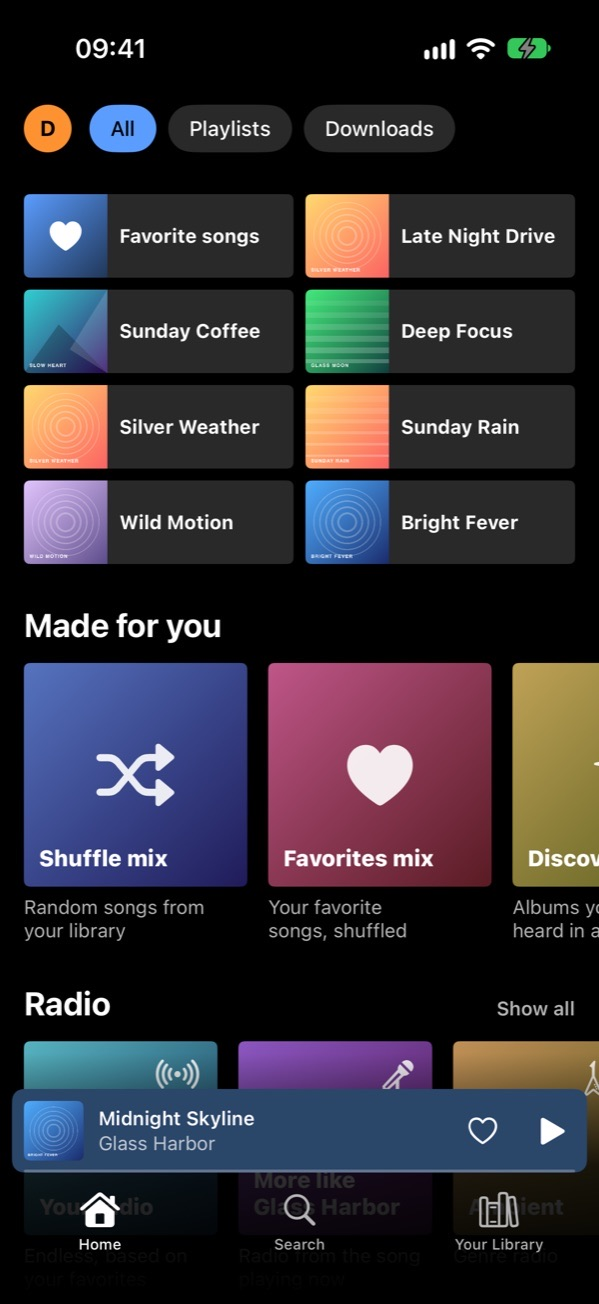
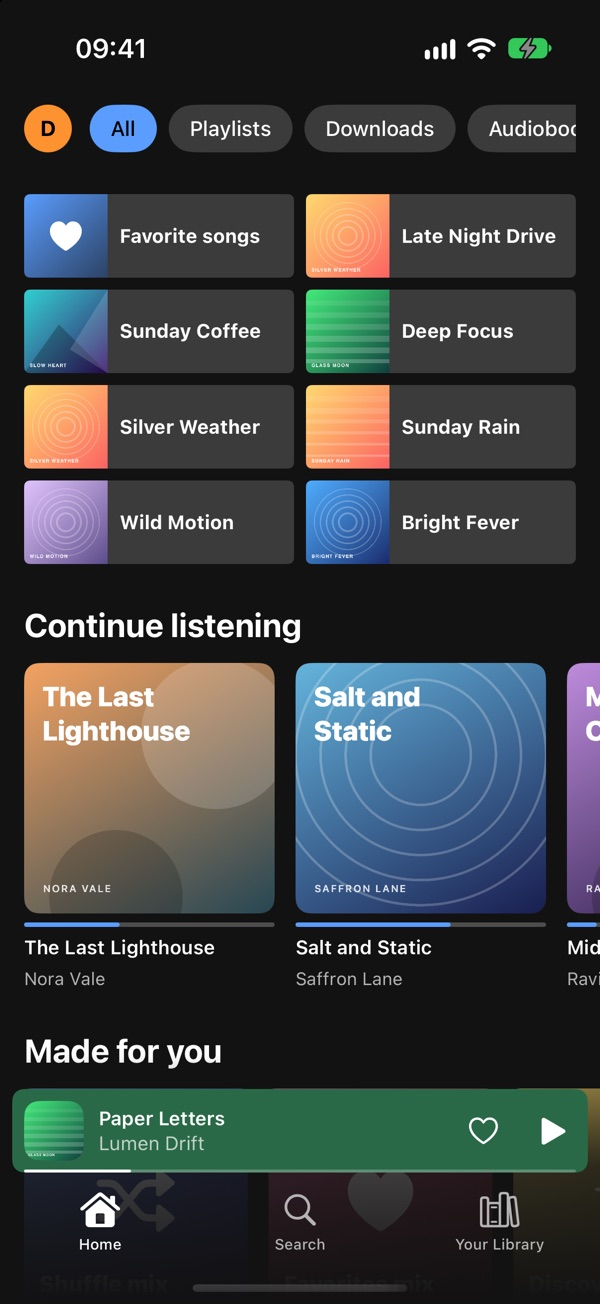
Website: audiobooks and customization sections, new screenshots, audiobook on the watch
- New sections for audiobooks/podcasts and for the look settings, with screenshots
- New home screenshot (dark gray, Continue listening), audiobook shelf in the iPhone strip, audiobook on the watch
- Demo tools: English demo books with covers for the audiobook test server

diff --git a/site/index.html b/site/index.html
@@ -211,6 +211,7 @@
   <div class="strip" id="strip">
     <figure><div class="phone"><img class="shot" src="img/ios/home.jpg" width="600" height="1304" alt="Home" loading="lazy"></div><figcaption>Home</figcaption></figure>
     <figure><div class="phone"><img class="shot" src="img/ios/player.jpg" width="600" height="1304" alt="Player" loading="lazy"></div><figcaption>Player</figcaption></figure>
+    <figure><div class="phone"><img class="shot" src="img/ios/books.jpg" width="600" height="1304" alt="Audiobooks and podcasts: continue listening and new books" loading="lazy"></div><figcaption>Audiobooks and podcasts</figcaption></figure>
     <figure><div class="phone"><img class="shot" src="img/ios/lyrics.jpg" width="600" height="1304" alt="Synced lyrics" loading="lazy"></div><figcaption>Synced lyrics</figcaption></figure>
     <figure><div class="phone"><img class="shot" src="img/ios/album.jpg" width="600" height="1304" alt="Album" loading="lazy"></div><figcaption>Album</figcaption></figure>
     <figure><div class="phone"><img class="shot" src="img/ios/library.jpg" width="600" height="1304" alt="Your library" loading="lazy"></div><figcaption>Your library</figcaption></figure>
@@ -276,7 +277,7 @@
         <ul>
           <li>Eight accent colors or your own, and nine app icons.</li>
           <li>Choose the start screen and which rows the home screen shows.</li>
-          <li>Backgrounds tinted with the cover, or plain black.</li>
+          <li>Dark gray or plain black, tinted with the cover if you like.</li>
           <li>Pin playlists to the top of your library with a long press.</li>
         </ul>
       </div>
@@ -289,6 +290,48 @@
           <li>Logging out removes that account's downloads and cache from the phone.</li>
         </ul>
       </div>
+    </div>
+  </div>
+</section>
+
+<!-- Audiobooks -->
+<section id="books" class="tint-plum">
+  <div class="wrap split">
+    <div class="reveal">
+      <p class="label">Audiobooks &amp; podcasts</p>
+      <h2>Books and podcasts, in the same app.</h2>
+      <p>Connect your Audiobookshelf server under Settings and your books and episodes sit next to your music. Pick up where you stopped, on any device, because the position goes back to the server.</p>
+      <ul class="ticks">
+        <li><b>Chapters, speed and a sleep timer.</b> Skip buttons you can set to 10 to 60 seconds, and speeds from 0.75x to 2.5x.</li>
+        <li><b>Offline.</b> Download books and episodes, listen on a plane, and your position syncs when you're back online.</li>
+        <li><b>Hearts, authors and series.</b> Favorite books and authors show up in your library, finished books get a check mark.</li>
+        <li><b>On the watch and in the car.</b> The same controls on your wrist and in CarPlay, and switching between music and a book follows along.</li>
+      </ul>
+    </div>
+    <div class="trio reveal">
+      <figure><div class="phone"><img class="shot" src="img/ios/book.jpg" width="600" height="1304" alt="A book page with progress, chapters and a play button" loading="lazy"></div></figure>
+      <figure><div class="phone"><img class="shot" src="img/ios/book-player.jpg" width="600" height="1304" alt="The audiobook player with chapter title, skip buttons, speed and sleep timer" loading="lazy"></div></figure>
+    </div>
+  </div>
+</section>
+
+<!-- Customization -->
+<section id="look" class="tint-rose">
+  <div class="wrap split">
+    <div class="trio reveal">
+      <figure><div class="phone"><img class="shot" src="img/ios/appearance.jpg" width="600" height="1304" alt="Appearance settings: accent colors, a custom color and nine app icons" loading="lazy"></div></figure>
+      <figure><div class="phone"><img class="shot" src="img/ios/look.jpg" width="600" height="1304" alt="Appearance settings: background, corners and cover size" loading="lazy"></div></figure>
+    </div>
+    <div class="reveal">
+      <p class="label">Make it yours</p>
+      <h2>Your colors, your corners.</h2>
+      <p>Tonalo should look like your app. Everything is a tap away under Settings, Appearance, and the app follows at once.</p>
+      <ul class="ticks">
+        <li><b>Accent color.</b> Eight to pick from, or any color of your own, and nine app icons to match.</li>
+        <li><b>Background.</b> Dark gray or plain black. Cards, chips and the mini player move along, so they stay readable on both.</li>
+        <li><b>Corners and covers.</b> Sharp, standard or rounded corners, and small, standard or large covers on the home screen.</li>
+        <li><b>Your home screen.</b> Choose the start screen and which rows the home page shows.</li>
+      </ul>
     </div>
   </div>
 </section>
@@ -342,6 +385,7 @@
       <div class="card reveal warm-rose wcard">
         <div class="dev-vis watches">
           <div class="watch-case"><img class="shot" src="img/watch/player.jpg" width="368" height="448" alt="Tonalo on the Apple Watch: the player" loading="lazy"></div>
+          <div class="watch-case"><img class="shot" src="img/watch/book.jpg" width="368" height="448" alt="Tonalo on the Apple Watch: an audiobook with skip buttons" loading="lazy"></div>
           <div class="watch-case"><img class="shot" src="img/watch/library.jpg" width="368" height="448" alt="Tonalo on the Apple Watch: playlists and favorites" loading="lazy"></div>
         </div>
         <div class="wtxt"><h3>Apple Watch</h3>
@@ -350,13 +394,15 @@
           <li>Player with the cover, play, skip, shuffle and a heart</li>
           <li>The iPhone's volume on the Digital Crown</li>
           <li>Start your playlists and favorites from the wrist</li>
+          <li>Audiobooks and podcasts with skip buttons and chapters, and Continue listening first in the library</li>
         </ul></div>
       </div>
       <div class="card reveal warm-green ccard">
         <div><h3>CarPlay</h3>
         <p>Your library on the car screen, made to be used at a glance.</p></div>
         <ul>
-          <li>Home, library and downloads</li>
+          <li>Home with Continue listening, library and downloads</li>
+          <li>Audiobooks and podcasts, with chapters and speed in the player</li>
           <li>Shuffle, repeat and a heart in the player</li>
           <li>No search, because Apple doesn't allow a keyboard in CarPlay music apps</li>
         </ul>

diff --git a/ios/tools/abs_mock.js b/ios/tools/abs_mock.js
@@ -16,9 +16,9 @@ function silence(seconds) {
   b.writeUInt16LE(1, 32); b.writeUInt16LE(8, 34); b.write('data', 36); b.writeUInt32LE(n, 40);
   return b;
 }
-const FILE = 120, WAV = silence(FILE); // every file is 2 minutes
+const FILE = +process.env.MOCK_FILE_SECONDS || 120, WAV = silence(FILE); // every file is 2 minutes (MOCK_FILE_SECONDS for longer ones)
 
-const chapters = (titles) => titles.map((title, i) => ({ id: i, start: i * 80, end: (i + 1) * 80, title }));
+const chapters = (titles) => titles.map((title, i) => { const len = (FILE * 3) / titles.length * (FILE === 120 ? 0.75 : 1) ; return { id: i, start: i * len, end: (i + 1) * len, title }; });
 const BOOKS = [
   { id: 'book-1', title: 'Das stille Buch', authorName: 'Nora Vale', narratorName: 'Milo Ferro', seriesName: 'Stille, Band 1', files: 3,
     description: '<p>Ein erfundenes <b>Hörbuch</b> zum Testen, aufgeteilt auf drei Dateien.</p>',
@@ -30,6 +30,21 @@ const BOOKS = [
 const EPISODES = [1, 2, 3].map((n) => ({ id: 'ep-' + n, title: 'Folge ' + n, subtitle: '', duration: FILE, publishedAt: n * 1000, audioFile: { ino: 'ep-' + n, duration: FILE, metadata: { ext: '.wav', size: 960044 } } }));
 const PODCAST = { id: 'pod-1', title: 'Der stille Podcast', author: 'Echo Park Social', description: 'Ein erfundener Podcast.' };
 
+// MOCK_EN=1: invented English books for screenshots, with some of them started. MOCK_BOOK_COVERS=<dir>: <id>.png is the cover of that item
+if (process.env.MOCK_EN) {
+  const EN = [
+    ['The Last Lighthouse', 'Nora Vale', 'Milo Ferro', 'Tidewater, Book 1', ['The Keeper', 'Storm Season', 'Salt on the Glass', 'The Long Night', 'Morning Tide']],
+    ['Paper Cities', 'Ellis Moor', 'Ines Harlow', '', ['Folded Maps', 'The Cartographer', 'Rain on Paper', 'A Door in the Margin']],
+    ['Salt and Static', 'Saffron Lane', 'Ravi Kade', '', ['Signal', 'Noise', 'Between Stations', 'Clear Channel']],
+    ['A Field Guide to Quiet', 'Glass Harbor', null, '', ['Morning', 'Midday', 'Evening']],
+    ['Midnight Orchard', 'Ravi Kade', 'Nora Vale', 'Tidewater, Book 2', ['Windfall', 'The Gate', 'Frost', 'Blossom', 'Harvest']],
+  ];
+  BOOKS.length = 0;
+  EN.forEach(([title, authorName, narratorName, seriesName, ch], i) => BOOKS.push({ id: 'book-' + (i + 1), title, authorName, narratorName, seriesName, files: 3,
+    description: '<p>An invented audiobook, made up for this demo.</p>', chapters: chapters(ch) }));
+  EPISODES.forEach((e, i) => { e.title = 'Episode ' + (i + 1); });
+  PODCAST.title = 'The Quiet Hour'; PODCAST.description = 'An invented podcast.';
+}
 const authorId = (name) => 'aut-' + name.toLowerCase().replace(/\W+/g, '-');
 const tracks = (b) => Array.from({ length: b.files }, (_, i) => ({ index: i + 1, ino: b.id + '-' + (i + 1), startOffset: i * FILE, duration: FILE, metadata: { ext: '.wav', size: WAV.length } }));
 const book = (b) => ({
@@ -37,7 +52,7 @@ const book = (b) => ({
   media: { duration: b.files * FILE, chapters: b.chapters, numTracks: b.files, tracks: tracks(b),
     metadata: { title: b.title, authorName: b.authorName, narratorName: b.narratorName, seriesName: b.seriesName, description: b.description, publishedYear: '2026',
       authors: [{ id: authorId(b.authorName), name: b.authorName }], narrators: b.narratorName ? [b.narratorName] : [],
-      series: b.seriesName ? [{ id: 'ser-1', name: 'Stille', sequence: '1' }] : [] } },
+      series: b.seriesName ? [{ id: 'ser-' + b.seriesName.split(',')[0].toLowerCase().replace(/\W+/g, '-'), name: b.seriesName.split(',')[0], sequence: (b.seriesName.match(/\d+/) || ['1'])[0] }] : [] } },
 });
 const podcast = () => ({
   id: PODCAST.id, libraryId: 'lib-pods', mediaType: 'podcast', addedAt: Date.now(),
@@ -58,6 +73,11 @@ function save(item, episode, currentTime, duration, finished) {
   const key = episode ? item + '/' + episode : item;
   const isFinished = finished ?? currentTime >= duration - 10;
   progress.set(key, { libraryItemId: item, episodeId: episode || null, currentTime, duration, progress: duration ? Math.min(1, currentTime / duration) : 0, isFinished, lastUpdate: Date.now() });
+}
+
+if (process.env.MOCK_EN) {
+  const dur = (b) => b.files * FILE;
+  [['book-1', 0.38], ['book-3', 0.62], ['book-5', 0.12], ['book-2', 1]].forEach(([id, f]) => { const b = BOOKS.find((x) => x.id === id); save(id, null, dur(b) * f, dur(b)); });
 }
 
 function shelves(lib) {
@@ -190,6 +210,8 @@ http.createServer((req, res) => {
         narrators: BOOKS.filter((b) => (b.narratorName || '').toLowerCase().includes(q)).map((b) => ({ name: b.narratorName, numBooks: 1 })) });
     }
     if ((x = m(/^\/api\/items\/([^/]+)\/cover$/))) {
+      const file = process.env.MOCK_BOOK_COVERS && require('path').join(process.env.MOCK_BOOK_COVERS, x[1] + '.png');
+      if (file && require('fs').existsSync(file)) { res.writeHead(200, { 'Content-Type': 'image/png' }); return res.end(require('fs').readFileSync(file)); }
       res.writeHead(200, { 'Content-Type': 'image/png' });
       // 1x1 PNG, enough to see a cover arrive
[1 lines of base64/hex data omitted]

diff --git a/ios/tools/render_book_covers.swift b/ios/tools/render_book_covers.swift
@@ -1,0 +1,41 @@
+// Draws made-up book and podcast covers for the audiobook demo server (ios/tools/abs_mock.js with MOCK_EN=1):
+//   swift ios/tools/render_book_covers.swift covers-books
+//   MOCK_EN=1 MOCK_BOOK_COVERS=covers-books node ios/tools/abs_mock.js
+import AppKit
+
+let out = URL(fileURLWithPath: CommandLine.arguments.count > 1 ? CommandLine.arguments[1] : "covers-books")
+try FileManager.default.createDirectory(at: out, withIntermediateDirectories: true)
+
+struct Cover { let id, title, author: String; let top, bottom: NSColor; let shape: Int }
+func c(_ r: Int, _ g: Int, _ b: Int) -> NSColor { NSColor(red: CGFloat(r) / 255, green: CGFloat(g) / 255, blue: CGFloat(b) / 255, alpha: 1) }
+let covers = [
+    Cover(id: "book-1", title: "The Last\nLighthouse", author: "NORA VALE", top: c(244, 162, 97), bottom: c(38, 70, 83), shape: 0),
+    Cover(id: "book-2", title: "Paper\nCities", author: "ELLIS MOOR", top: c(233, 196, 106), bottom: c(142, 68, 73), shape: 1),
+    Cover(id: "book-3", title: "Salt and\nStatic", author: "SAFFRON LANE", top: c(100, 180, 220), bottom: c(25, 30, 80), shape: 2),
+    Cover(id: "book-4", title: "A Field Guide\nto Quiet", author: "GLASS HARBOR", top: c(168, 213, 186), bottom: c(40, 90, 80), shape: 1),
+    Cover(id: "book-5", title: "Midnight\nOrchard", author: "RAVI KADE", top: c(190, 140, 220), bottom: c(30, 20, 60), shape: 0),
+    Cover(id: "pod-1", title: "The Quiet\nHour", author: "ECHO PARK SOCIAL", top: c(250, 130, 120), bottom: c(70, 30, 90), shape: 2),
+]
+
+for cv in covers {
+    let size = 600
+    let image = NSImage(size: NSSize(width: size, height: size))
+    image.lockFocus()
+    NSGradient(starting: cv.top, ending: cv.bottom)!.draw(in: NSRect(x: 0, y: 0, width: size, height: size), angle: -60)
+    NSColor.white.withAlphaComponent(0.16).setFill()
+    switch cv.shape {
+    case 0: NSBezierPath(ovalIn: NSRect(x: 280, y: 250, width: 360, height: 360)).fill()
+            NSColor.black.withAlphaComponent(0.18).setFill(); NSBezierPath(ovalIn: NSRect(x: 60, y: -120, width: 320, height: 320)).fill()
+    case 1: for i in 0..<6 { NSBezierPath(rect: NSRect(x: 0, y: 70 + i * 62, width: size, height: 10 + i * 4)).fill() }
+    default: for i in 0..<5 { let r = 120.0 + Double(i) * 60; let p = NSBezierPath(ovalIn: NSRect(x: 300 - r, y: 380 - r, width: r * 2, height: r * 2)); p.lineWidth = 6; NSColor.white.withAlphaComponent(0.22).setStroke(); p.stroke() }
+    }
+    let para = NSMutableParagraphStyle(); para.lineSpacing = 4
+    (cv.title as NSString).draw(in: NSRect(x: 44, y: 330, width: 520, height: 230), withAttributes: [
+        .font: NSFont.systemFont(ofSize: 66, weight: .heavy), .foregroundColor: NSColor.white, .paragraphStyle: para])
+    (cv.author as NSString).draw(at: NSPoint(x: 46, y: 46), withAttributes: [
+        .font: NSFont.systemFont(ofSize: 24, weight: .semibold), .foregroundColor: NSColor.white.withAlphaComponent(0.85), .kern: 4])
+    image.unlockFocus()
+    let rep = NSBitmapImageRep(data: image.tiffRepresentation!)!
+    try rep.representation(using: .png, properties: [:])!.write(to: out.appendingPathComponent(cv.id + ".png"))
+}
+print("covers in", out.path)

diff --git a/site/style.css b/site/style.css
@@ -493,3 +493,15 @@ section[class*="tint-"]::before {
   .log .meta { flex-direction: row; align-items: center; gap: 12px; }
 }
 code.url { word-break: break-all; }
+
+/* Phone pairs next to a text block (audiobooks, customization) */
+.trio { display: grid; grid-template-columns: repeat(2, minmax(0, 1fr)); gap: 22px; align-items: start; max-width: 520px; margin: 0 auto; }
+.trio figure:nth-child(2) { margin-top: 44px; }
+.trio .phone { width: 100%; }
+.ticks { margin: 22px 0 0; padding: 0; list-style: none; }
+.ticks li { padding: 12px 0; border-top: 1px solid var(--line); color: var(--muted); font-size: 16px; }
+.ticks b { color: var(--text, #fff); }
+.wcard .watches:has(> :nth-child(3)) { gap: 12px; }
+.wcard .watches:has(> :nth-child(3)) .watch-case { width: 124px; padding: 8px; border-radius: 34px; }
+.wcard .watches:has(> :nth-child(3)) .watch-case img { border-radius: 26px; }
+@media (max-width: 980px) { .trio { max-width: 420px; } }
